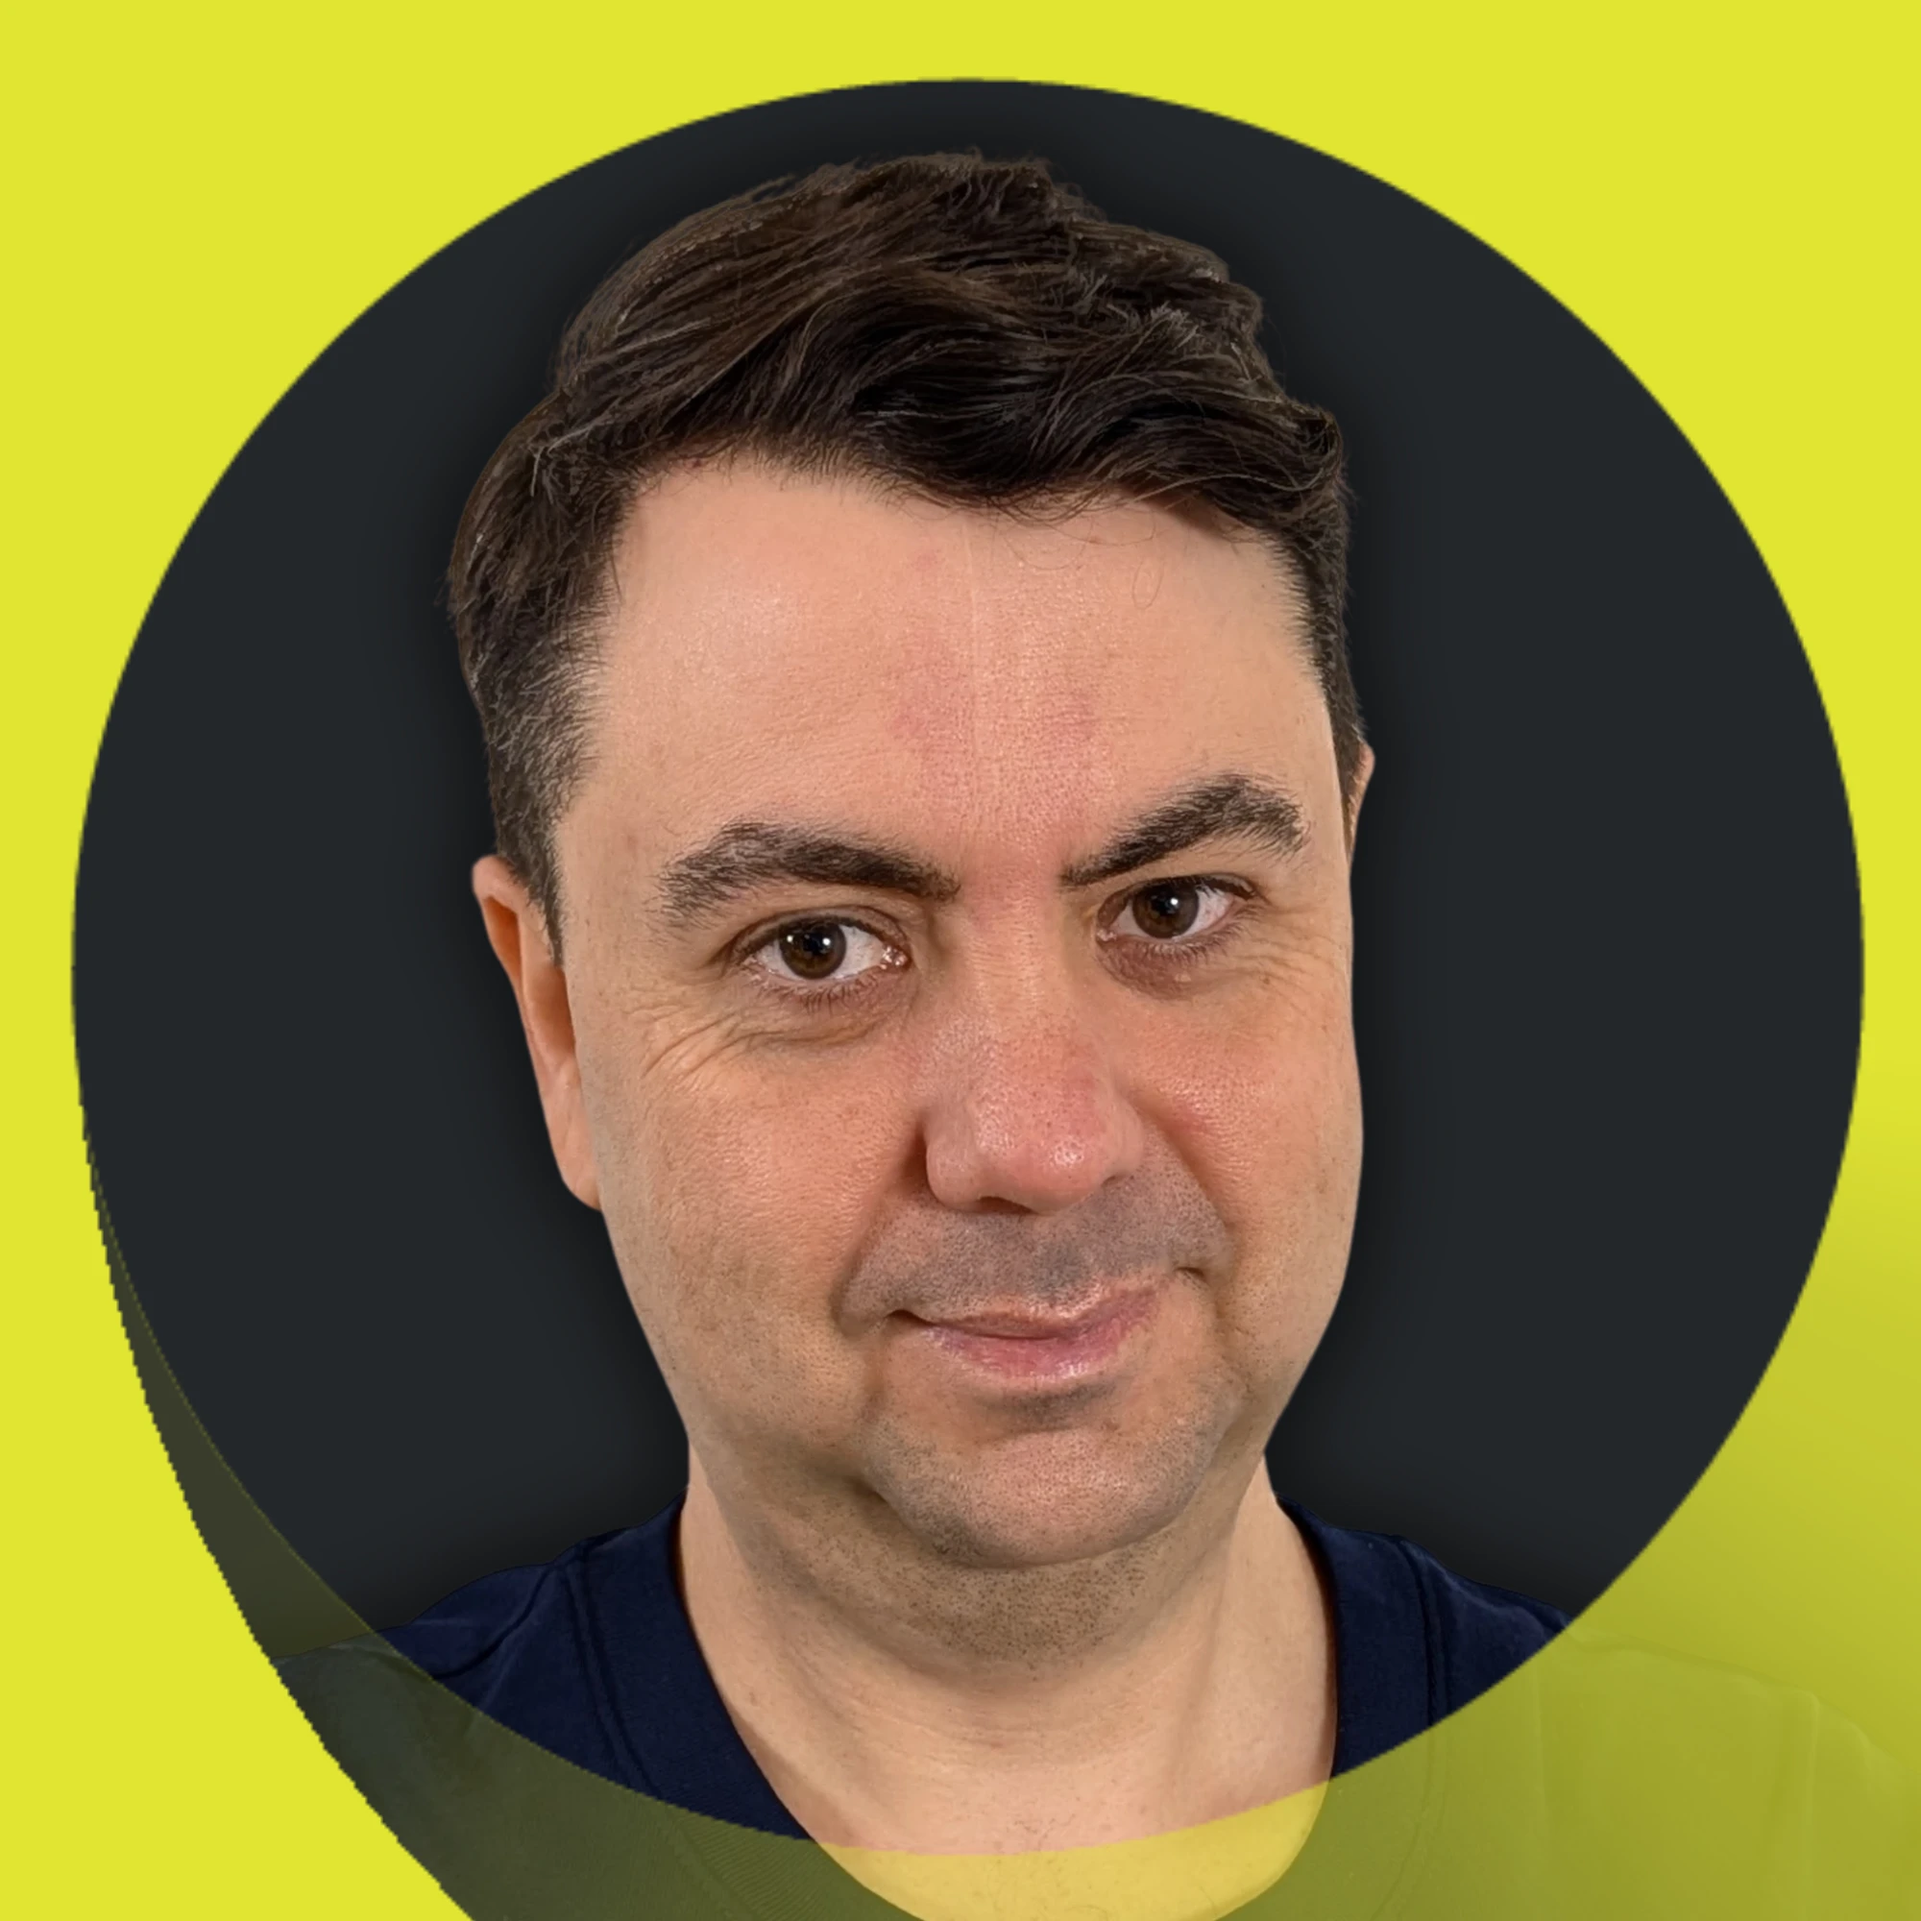
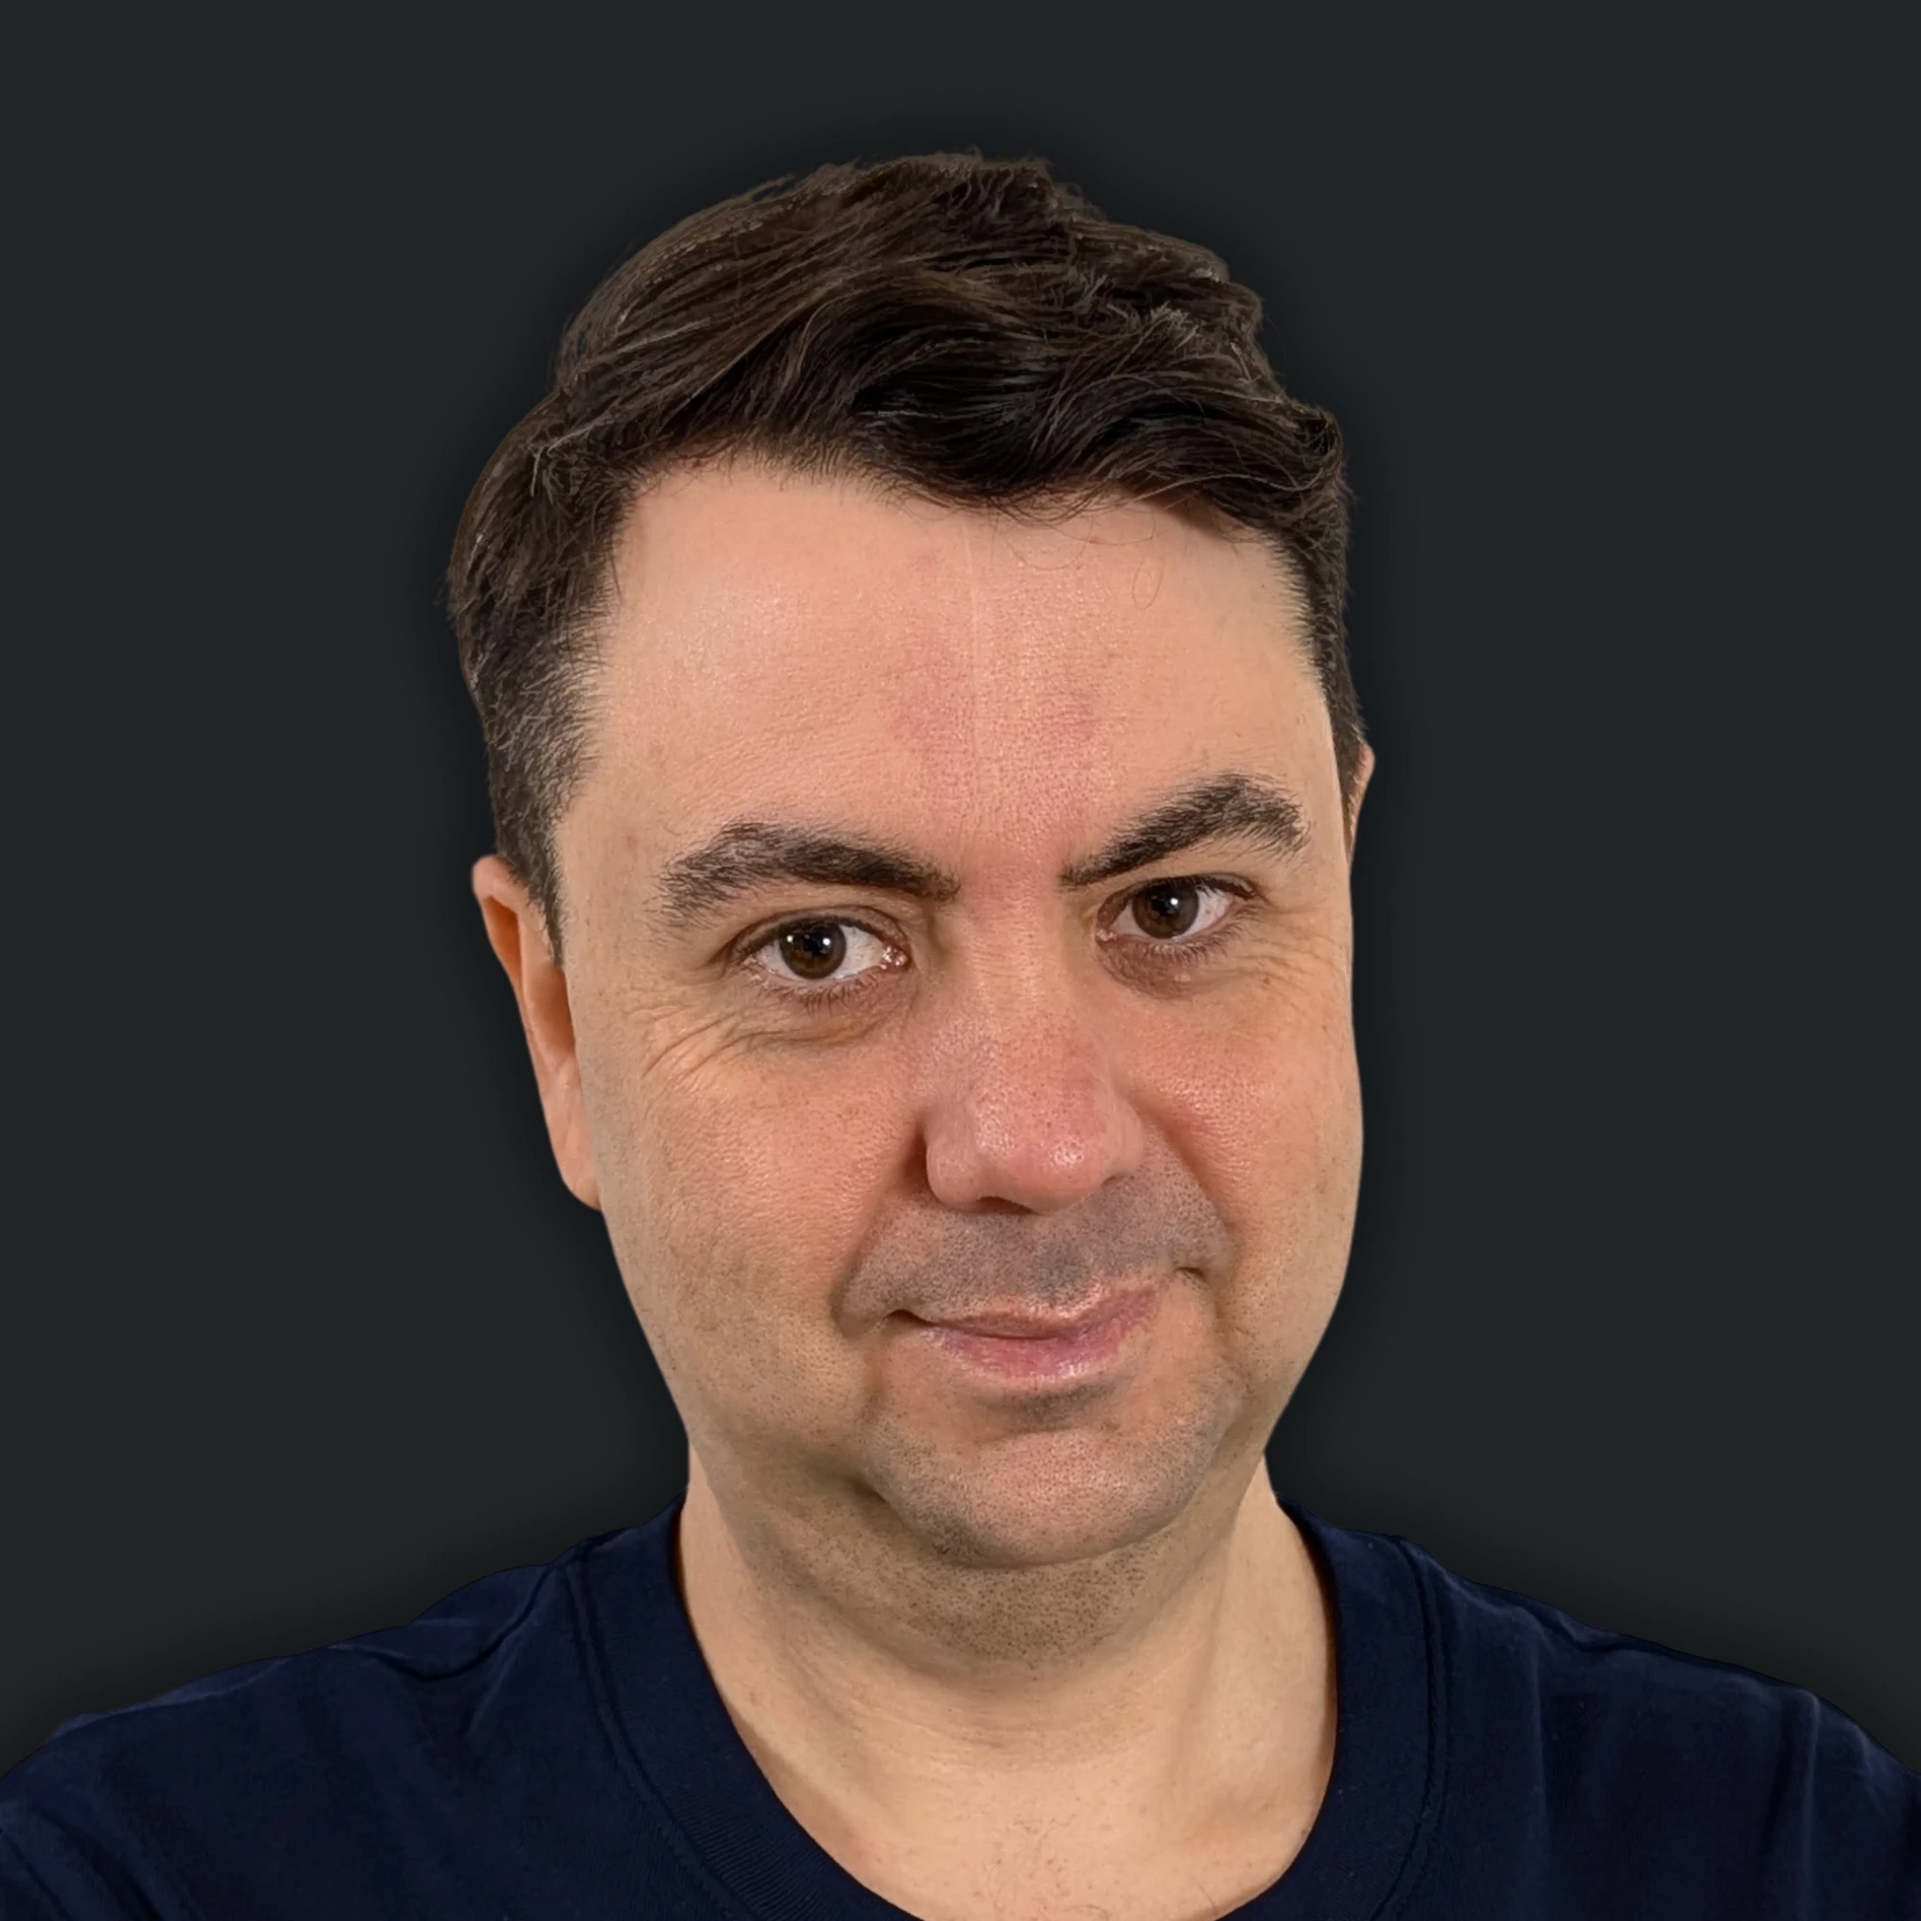
feat: align course discovery and author portraits with Drops (#56)
Dose’s catalog now distinguishes closed Specialization enrollment from
the forthcoming Trilha, with waitlists immediately after course
introductions. Navigation and author portraits match the reviewed Drops
improvements using Portuguese copy, BRL prices, and Dose’s yellow
branding.

- Use explicit availability labels on homepage/catalog cards, comparison
tables, course actions, and the agent guide. Align search metadata and
regenerate the two affected social cards.
- Prioritize Cursos, the English OTCA quiz and podcast, and Blog; use
the blog as the homepage’s free-learning action. Replace team-training
offers with course questions.
- Use the neutral instructor portrait, yellow borders, and fixed-size
blog byline/bio portraits. Preserve per-article authors,
translated-source attribution, and the newly merged Portuguese articles.
- Carry over the five shared template refinements. All 36 common
implementation files now match Drops exactly; website-specific facts,
integrations, and content stay local. No duplicate quiz, classroom,
contact, event, or learning-path pages are introduced.

Validation:

- Based on latest `origin/main` (`54d2b36`), including the Portuguese
article merge; resolved the sole blog-byline overlap while preserving
its author registry and translation metadata.
- `bun install --frozen-lockfile`, lint (0 errors/warnings/hints), type
checking, production build, all 24 SEO/export/Worker/alignment tests,
and Wrangler deployment dry-run pass.
[…]

diff --git a/src/data/faq-data.ts b/src/data/faq-data.ts
@@ -12,13 +12,13 @@ const certificate: FaqEntry = {
 };
 const language: FaqEntry = { question: 'Em que idioma são os cursos?', answer: 'Os cursos da Dose de Telemetria são em português. O simulado OTCA e o podcast vinculados neste site estão em inglês.' };
 const instructor: FaqEntry = { question: 'Quem ensina os cursos?', answer: `${author.name} é contribuidor do OpenTelemetry e instrutor dos cursos.`, link: { href: '/#instrutor', label: 'Conheça o instrutor' } };
-const teams: FaqEntry = { question: 'Como conversar sobre treinamento para minha equipe?', answer: 'Escreva para contato@dosedetelemetria.com com a experiência da equipe, os assuntos de interesse e o treinamento desejado.', link: { href: 'mailto:contato@dosedetelemetria.com', label: 'Entre em contato' } };
+const courseHelp: FaqEntry = { question: 'Como tirar dúvidas sobre um curso?', answer: 'Escreva para contato@dosedetelemetria.com com o curso de interesse e suas dúvidas sobre o conteúdo ou acesso.', link: { href: 'mailto:contato@dosedetelemetria.com', label: 'Entre em contato' } };
 const availability: FaqEntry = { question: 'Quais cursos estão disponíveis para compra?', answer: productData.map(p => `${p.title}: ${p.price}; ${p.available ? 'disponível para compra' : 'matrículas fechadas, com lista de interesse'}.`).join(' '), link: { href: '/products/', label: 'Veja os detalhes dos cursos' } };
 export const homeFaq: FaqEntry[] = [
-  { question: 'Para quem é a Dose de Telemetria?', answer: 'Oferecemos cursos de OpenTelemetry para profissionais de engenharia de software, SRE, DevOps e equipes que querem aprender instrumentação e pipelines de telemetria. O blog também oferece conteúdo gratuito em português.' },
-  comparison, availability, teams,
+  { question: 'Para quem é a Dose de Telemetria?', answer: 'Oferecemos cursos de OpenTelemetry para profissionais de engenharia de software, SRE e DevOps que querem aprender instrumentação e pipelines de telemetria. O blog também oferece conteúdo gratuito em português.' },
+  comparison, availability, courseHelp,
 ];
-export const productsFaq: FaqEntry[] = [comparison, availability, language, instructor, certificate, teams];
+export const productsFaq: FaqEntry[] = [comparison, availability, language, instructor, certificate, courseHelp];
 export function courseFaq(product: Product): FaqEntry[] {
   return [
     { question: `Posso me matricular em ${product.title} agora?`, answer: product.available ? `${product.title} está disponível por ${product.price}. A matrícula é realizada na plataforma externa indicada no link.` : `As matrículas em ${product.title} estão fechadas. O preço informado é ${product.price}. Entre na lista de interesse para receber novidades.`, link: product.available ? { href: product.ctaLink, label: 'Ver matrícula' } : { href: '#waitlist', label: 'Entrar na lista de interesse' } },
@@ -26,6 +26,6 @@ export function courseFaq(product: Product): FaqEntry[] {
     language, instructor, certificate,
     { question: 'Quais assuntos o curso cobre?', answer: 'Instrumentação, sinais, modelo de dados, API, SDK, Collector, Operator, arquitetura, migração e cultura de observabilidade. Consulte a lista de módulos e aulas nesta página.' },
     { question: 'Onde estão os termos e condições de cancelamento?', answer: 'Consulte os termos de uso para conhecer as condições aplicáveis antes da compra. Entre em contato se precisar de esclarecimentos.', link: { href: '/terms-of-use/', label: 'Leia os termos de uso' } },
-    teams,
+    courseHelp,
   ];
 }

diff --git a/src/data/seo-data.ts b/src/data/seo-data.ts
@@ -37,7 +37,7 @@ export const seoData = {
   },
   products: {
     title: "Cursos e especialização em OpenTelemetry",
-    description: "Compare a Trilha OTel e a Especialização em OTel: cursos em português com projetos práticos. Em breve.",
+    description: "Compare os cursos de OpenTelemetry em português: conteúdo, preços e situação das matrículas.",
     keywords: "curso OpenTelemetry, especialização OTel, certificação observabilidade, programa treinamento OpenTelemetry",
     jsonLd: {
       "@context": "https://schema.org",
@@ -54,7 +54,7 @@ export const seoData = {
   },
   otelSpecialization: {
     title: "Especialização em OpenTelemetry",
-    description: "Programa intensivo de 8 semanas com conversas semanais, projetos práticos e feedback personalizado. Em breve.",
+    description: "Programa de 8 semanas com mentoria e projetos práticos de OpenTelemetry. Matrículas encerradas.",
     keywords: "especialização OpenTelemetry, treinamento intensivo OTel, mentoria observabilidade, treinamento especialista OpenTelemetry"
   }
 };

diff --git a/src/data/site-copy.ts b/src/data/site-copy.ts
@@ -55,8 +55,8 @@ export const waitlistCopy = {
 };
 
 export const catalogCopy = {
-  "title": "Nossos produtos",
-  "intro": "Cursos e especializações em OpenTelemetry para desenvolver suas habilidades em observabilidade.",
+  "title": "Escolha seu curso de OpenTelemetry",
+  "intro": "Compare o estudo no seu ritmo com um programa com mentoria. Confira a situação das matrículas de cada curso.",
   "courses": "Conheça nossos produtos",
   "coursesIntro": "Escolha o formato de aprendizado que combina com seus objetivos.",
   "compare": "Qual é o curso ideal para você?",
@@ -68,7 +68,7 @@ export const catalogCopy = {
   "testimonials": "O que nossos alunos dizem",
   "testimonialsIntro": "Experiências de quem já aprendeu conosco.",
   "contactTitle": "Ainda com dúvidas?",
-  "contactText": "Entre em contato para escolher um curso para você ou sua equipe.",
+  "contactText": "Entre em contato para tirar dúvidas e escolher um curso.",
   "contact": "Fale conosco",
   "comparisonLabels": {
     "format": "Formato",

diff --git a/src/pages/llms.txt.ts b/src/pages/llms.txt.ts
@@ -5,7 +5,7 @@ export async function GET() {
   const posts = (await getCollection('blog')).sort((a, b) => b.data.publishedAt.valueOf() - a.data.publishedAt.valueOf());
   const articles = posts.map(post => `- [${post.data.title}](https://dosedetelemetria.com/blog/${post.data.slug}/): ${post.data.description}`).join('\n');
   const courses = productData.map(product =>
-    `- [${product.title}](https://dosedetelemetria.com/products/${product.slug}/): ${product.description}. ${product.price}. ${product.available ? 'Disponível' : 'Em breve'}.`
+    `- [${product.title}](https://dosedetelemetria.com/products/${product.slug}/): ${product.description}. ${product.price}. ${product.availabilityLabel}.`
   ).join('\n');
   const body = `# Dose de Telemetria
 

diff --git a/src/data/product-data.ts b/src/data/product-data.ts
@@ -32,6 +32,7 @@ export interface Product {
   ctaText: string;
   ctaLink: string;
   available: boolean;
+  availabilityLabel: string;
   popular?: boolean;
 }
 
@@ -248,9 +249,10 @@ export const productData: Product[] = [
       }
     ],
     price: "R$ 5.997,00",
-    ctaText: "Em breve",
+    ctaText: "Matrículas encerradas",
     ctaLink: "/waiting-list",
-    available: false
+    available: false,
+    availabilityLabel: "Matrículas encerradas"
   },
   {
     id: "trilha",
@@ -465,6 +467,7 @@ export const productData: Product[] = [
     ctaText: "Em breve",
     ctaLink: "https://mn.dosedetelemetria.com/share/u1ERnGs2fyDlmmdq",
     available: false,
+    availabilityLabel: "Em breve",
     popular: true
   }
 ];

diff --git a/docs/site-alignment.md b/docs/site-alignment.md
@@ -25,6 +25,8 @@ at build time. A package or repository consolidation remains a separate decision
 | Analytics | Common layout with explicit head/body integration boundaries | Drops retains its analytics; Dose does not acquire Drops tracking configuration |
 | Legal and resources | Common shell and controls | Legal texts, available resource pages, images, social accounts, backend settings and enrollment destinations remain local |
 
+Course cards and comparisons use explicit catalog availability labels. Closed cohort enrollment is distinct from a forthcoming self-paced course. Waitlists precede course features, and author portraits use fixed square dimensions with the local brand-accent border.
+
 Course availability is independent of visual emphasis. A highlighted card opens
 course details; it must not enable enrollment. A completion certificate is not
 CNCF OTCA certification. Existing English resources remain labelled as English

diff --git a/DESIGN.md b/DESIGN.md
@@ -47,7 +47,7 @@ restrita e código com rolagem horizontal. Metadados mantêm contraste de leitur
 
 ## Navegação e leitura
 
-A navegação principal contém Início, Produtos, Blog e links identificados para o
+A navegação principal contém Cursos, Blog e links identificados para o
 simulado OTCA e o podcast em inglês. O menu compacto atende
 larguras abaixo de 1024px, mantém o foco dentro dos controles abertos e fecha
 com Escape ou ao entrar no layout desktop. Os links sociais permanecem nas
